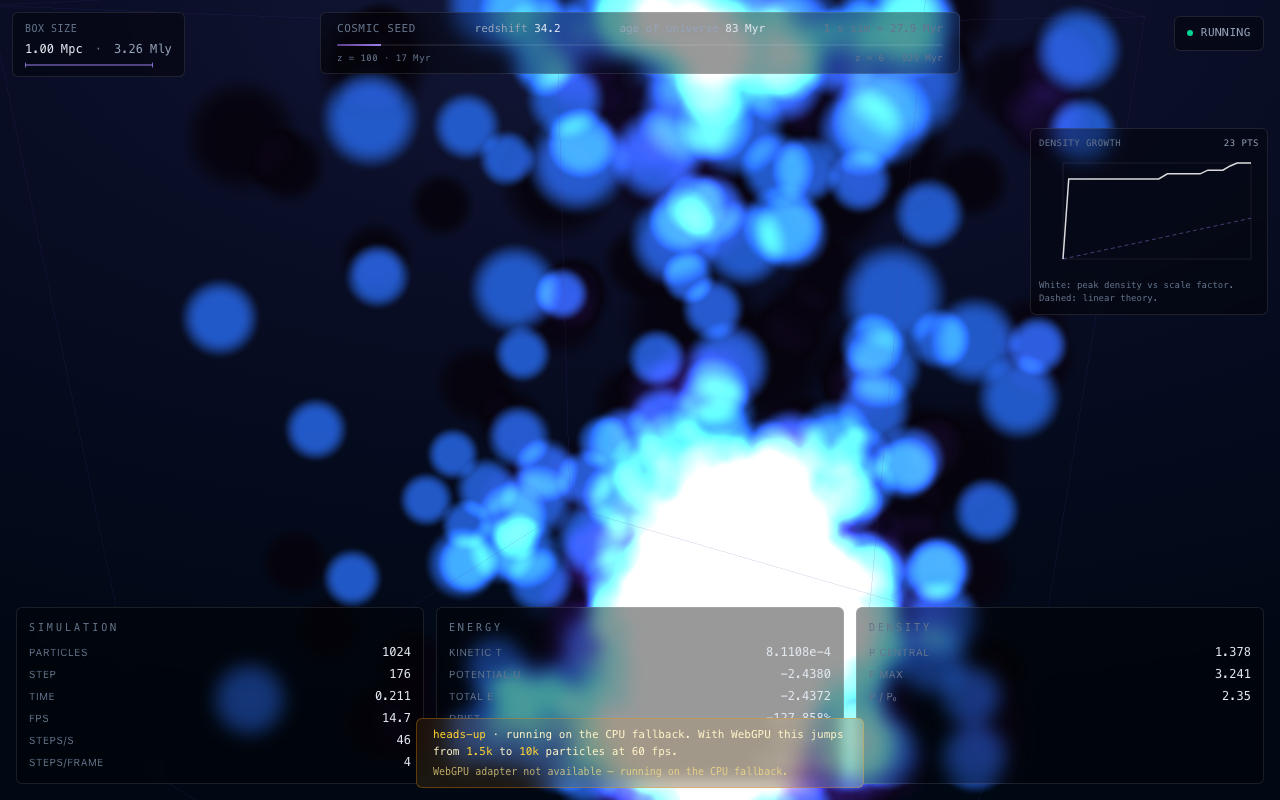
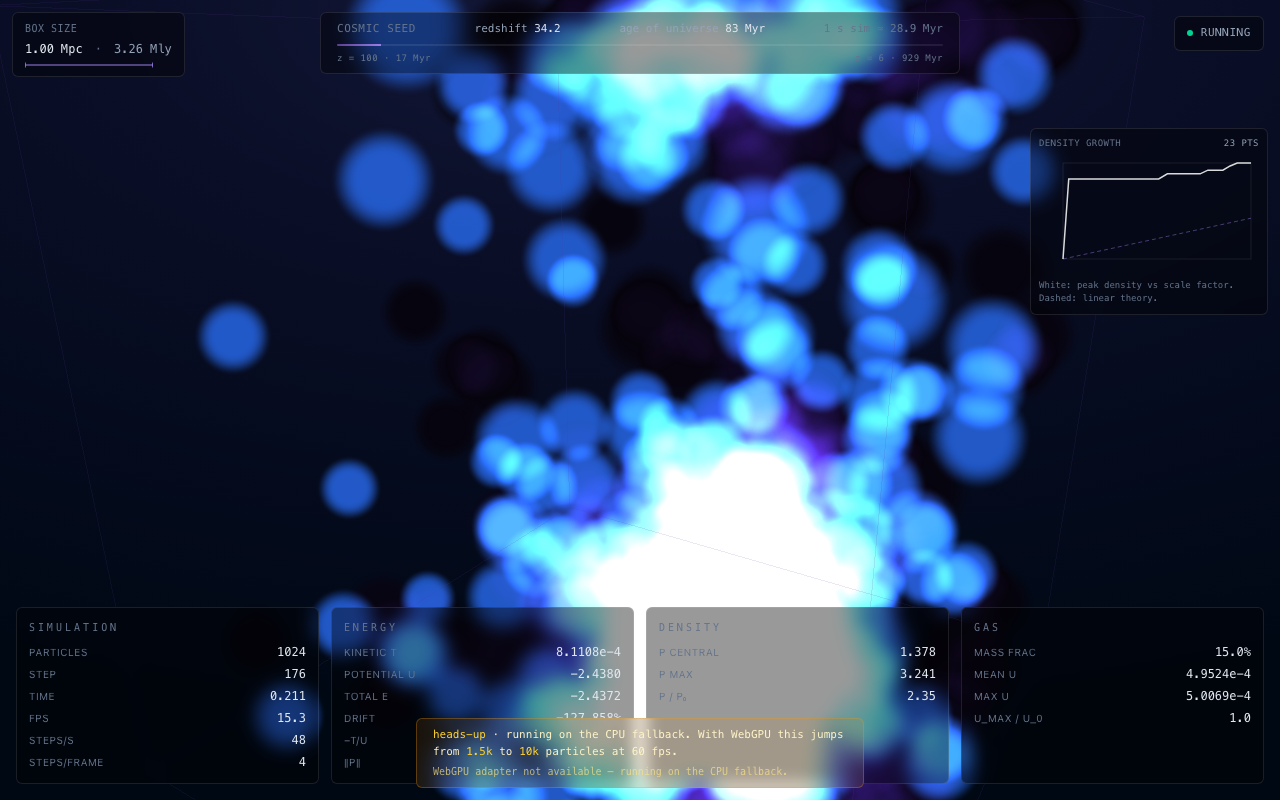
feat(stage-3): close with HUD gas section, defer 3c/3d to follow-up
Stage 3 closed with the visual reveal in place:
- CPU mode runs full two-species hydrodynamics (DM + gas with SPH).
- Gas particles render with a temperature ramp.
- HUD gets a 4th panel for gas: mass fraction (Ω_b/Ω_m anchor),
  mean u, max u, compression-heating amplification factor (max/mean).

Two items move to a follow-up perf push instead of holding Stage 3
open:

- **3c — WGSL SPH compute kernels.** Currently GPU mode is DM-only;
  CPU users see the gas, Chrome/WebGPU users don't. Lifting SPH to
  WGSL is genuinely 1–2 sessions of work (density pass, force +
  energy pass, GPU buffers for u/ρ_gas/pressure-accel, new bind
  group + pipelines). Lands as part of the Stage 7 perf hardening.

- **3d — shock-tube + isothermal-collapse tests.** No artificial
  viscosity yet, so the Sod shock-tube would fail anyway. Both
  arrive together with the GPU port.

Stage 4 (cooling, halos, first stars) is next — bigger visual win
for ALL users (not just CPU): the first stars ignite as bright white
points in the densest halos, the educational story of "when the
first lights came on" lands.

86 unit tests + 2 e2e green. Build 768 KB / 209 KB gzipped.

diff --git a/src/ui/Hud.tsx b/src/ui/Hud.tsx
@@ -48,7 +48,7 @@ export function Hud(): React.JSX.Element {
       <div className="grow" />
 
       {/* Bottom: stats panel */}
-      <div className="pointer-events-auto grid grid-cols-1 gap-3 sm:grid-cols-3">
+      <div className="pointer-events-auto grid grid-cols-1 gap-3 sm:grid-cols-4">
         <section className="rounded-md border border-white/10 bg-black/40 p-3 backdrop-blur-sm">
           <h2 className="mb-2 font-mono text-[10px] tracking-[0.3em] text-(--color-ink-3) uppercase">
             simulation
@@ -92,6 +92,38 @@ export function Hud(): React.JSX.Element {
               label="ρ / ρ₀"
               value={fmt(d.maxCentralDensity / Math.max(1e-9, d.centralDensity || 1), 2)}
               hint="Growth of central density relative to current."
+            />
+          </div>
+        </section>
+
+        <section className="rounded-md border border-white/10 bg-black/40 p-3 backdrop-blur-sm">
+          <h2 className="mb-2 font-mono text-[10px] tracking-[0.3em] text-(--color-ink-3) uppercase">
+            gas
+          </h2>
+          <div className="space-y-1">
+            <Stat
+              label="mass frac"
+              value={d.gasMassFraction > 0 ? fmtPercent(d.gasMassFraction, 1) : '—'}
+              hint="Fraction of total mass that's baryons (Ω_b/Ω_m ≈ 0.157)"
+            />
+            <Stat
+              label="mean u"
+              value={d.gasMassFraction > 0 ? fmt(d.gasMeanInternalEnergy, 4) : '—'}
+              hint="Average gas internal energy (proxy for temperature)"
+            />
+            <Stat
+              label="max u"
+              value={d.gasMassFraction > 0 ? fmt(d.gasMaxInternalEnergy, 4) : '—'}
+              hint="Hottest gas particle. Heated via adiabatic compression."
+            />
+            <Stat
+              label="u_max / u_0"
+              value={
+                d.gasMassFraction > 0
+                  ? fmt(d.gasMaxInternalEnergy / Math.max(1e-9, d.gasMeanInternalEnergy), 1)
+                  : '—'
+              }
+              hint="Compression-heating amplification factor."
             />
           </div>
         </section>

diff --git a/stages/STATUS.md b/stages/STATUS.md
@@ -4,22 +4,22 @@ Last updated: 2026-05-08
 
 ## At a glance
 
-| #   | Stage                                                                | Status      | Notes                                                 |
-| --- | -------------------------------------------------------------------- | ----------- | ----------------------------------------------------- |
-| 00  | [Foundation](00-foundation.md)                                       | DONE        | scaffold, tooling, CI, Vercel deploy live             |
-| 01  | [Gravity prototype](01-gravity-prototype.md)                         | IN PROGRESS | 1a/1b/1c landed. Cross-val test pending.              |
-| 02  | [Cosmology + initial conditions](02-cosmology-initial-conditions.md) | DONE        | Zeldovich IC, periodic comoving leapfrog, δ_max chart |
-| 03  | [Baryons & SPH](03-baryons-sph.md)                                   | TODO        | gas, pressure, viscosity                              |
-| 04  | [Cooling, halos, first stars](04-cooling-halos-stars.md)             | TODO        | H₂ cooling, FoF, M_crit ignition                      |
-| 05  | [Parameters & UI](05-parameters-ui.md)                               | TODO        | sliders, presets, URL share                           |
-| 06  | [WDM, SIDM, streaming velocity](06-wdm-sidm-streaming.md)            | TODO        | dark-matter alternatives                              |
-| 07  | [Polish & deploy](07-polish-deploy.md)                               | TODO        | bloom, mobile, copy, prod deploy                      |
+| #   | Stage                                                                | Status      | Notes                                                                  |
+| --- | -------------------------------------------------------------------- | ----------- | ---------------------------------------------------------------------- |
+| 00  | [Foundation](00-foundation.md)                                       | DONE        | scaffold, tooling, CI, Vercel deploy live                              |
+| 01  | [Gravity prototype](01-gravity-prototype.md)                         | IN PROGRESS | 1a/1b/1c landed. Cross-val test pending.                               |
+| 02  | [Cosmology + initial conditions](02-cosmology-initial-conditions.md) | DONE        | Zeldovich IC, periodic comoving leapfrog, δ_max chart                  |
+| 03  | [Baryons & SPH](03-baryons-sph.md)                                   | DONE\*      | 3a/3b: CPU SPH + T-coloured gas. 3c/3d: GPU SPH + shock test deferred. |
+| 04  | [Cooling, halos, first stars](04-cooling-halos-stars.md)             | TODO        | H₂ cooling, FoF, M_crit ignition                                       |
+| 05  | [Parameters & UI](05-parameters-ui.md)                               | TODO        | sliders, presets, URL share                                            |
+| 06  | [WDM, SIDM, streaming velocity](06-wdm-sidm-streaming.md)            | TODO        | dark-matter alternatives                                               |
+| 07  | [Polish & deploy](07-polish-deploy.md)                               | TODO        | bloom, mobile, copy, prod deploy                                       |
 
 ## Active stage
 
-**Stage 3 — Baryons & SPH.** Next up: gas as a second species, SPH density / pressure / artificial viscosity, gas particles colour-coded by temperature. Big visual jump — gas dissipates and stabilises halos, no more pulsation, JWST-style appearance starts here.
+**Stage 4 — Cooling, halos, first stars.** Next: H₂ cooling, friends-of-friends halo finder, M_crit ignition criterion (Kulkarni+2021), star particles rendered as bright white points with bloom. Star ignition is the big educational beat — "this is when the first stars in the universe lit up".
 
-Stage 1 stays open in parallel: cross-validation test (Playwright with WebGPU-enabled chromium), sampled potential-energy readout in GPU mode. Default GPU count tuned to 5 k after user testing.
+Stage 1 stays open in parallel (cross-validation test, sampled potential-energy readout in GPU mode). Stage 3 closed with two deferred items: 3c (WGSL SPH compute kernels for the GPU path — currently GPU mode is DM-only, gas only visible on CPU fallback) and 3d (Sod shock-tube test + isothermal-collapse self-similar test). Both are physics-quality items, not blocking the Stage-4 visual story.
 
 ## Open blockers
 
@@ -27,6 +27,7 @@ _None._ One UX nit from Stage 0: Vercel project still has Deployment Protection 
 
 ## Recent activity
 
+- 2026-05-08 — Stage 3 closed (3c/3d deferred): two-species hydrodynamics on the CPU path. SPH cubic-spline kernel + density estimator + symmetrised pressure-gradient force + adiabatic energy update; gas particles render in a separate THREE.Points cloud with a blue→cyan→orange→white temperature ramp; HUD gains a gas section (mass fraction, mean/max u, compression-heating amplification). 86 unit tests + 2 e2e green. GPU mode stays DM-only until the WGSL SPH kernels (3c) ship.
 - 2026-05-08 — Stage 2c3 / Stage 2 closed: δ_max(a) chart with Carroll-Press-Turner reference line, linear-growth regression test, density-sample ring buffer in the store. 68 unit tests + 2 e2e green.
 - 2026-05-08 — Stage 2c2: cosmological dynamics live. Periodic min-image gravity (CPU + WGSL), `cosmologicalLeapfrogStep` with `1/a²` drift scale, Zeldovich IC as default, runner refactored to accept external particles. Visual: spherical-collapse single blob → multiple discrete halos forming on Zeldovich seeds.
 - 2026-05-08 — Stage 2c1: cosmic time bookkeeping. SimulationDiagnostics carries ageInMyr, scaleFactor, redshift; runner advances cosmological clock by dtMyr; TimeStrip reads from store instead of wall-clock.

diff --git a/stages/03-baryons-sph.md b/stages/03-baryons-sph.md
@@ -1,6 +1,6 @@
 # Stage 3: Baryons & SPH
 
-**Status:** IN PROGRESS (3a done; 3b in flight)
+**Status:** DONE (3a + 3b shipped; 3c WGSL SPH + 3d shock-tube test deferred to a follow-up perf pass — physics works on the CPU path, GPU stays DM-only until we move SPH to WGSL)
 **Estimated:** 1 week
 **Depends on:** Stage 2
 **Spec reference:** Phase 2 (cosmology brief §5, §1.5)
